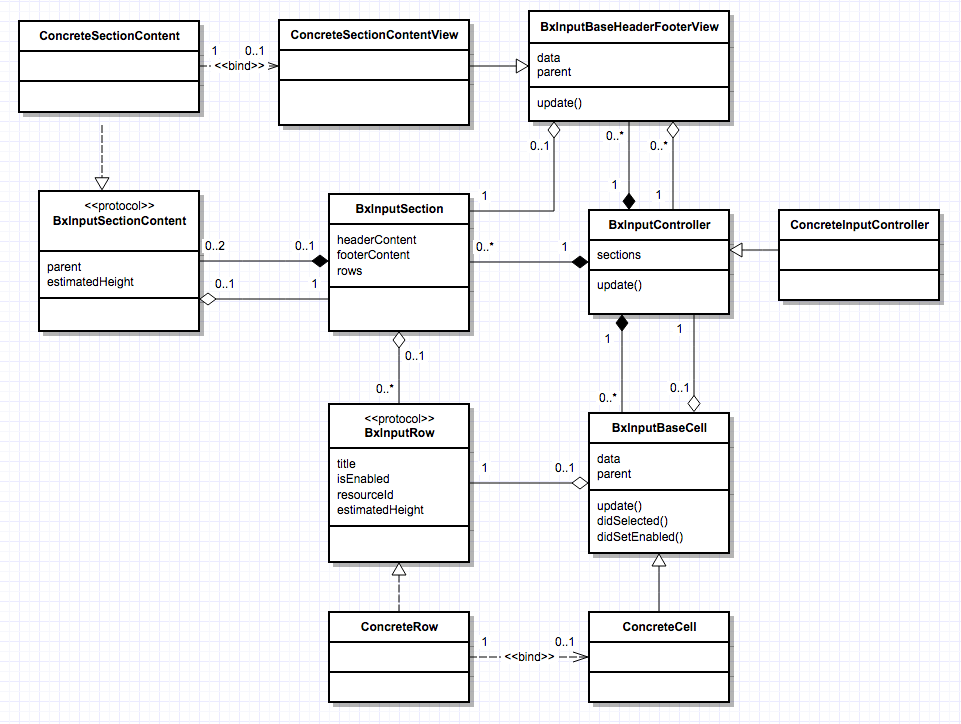
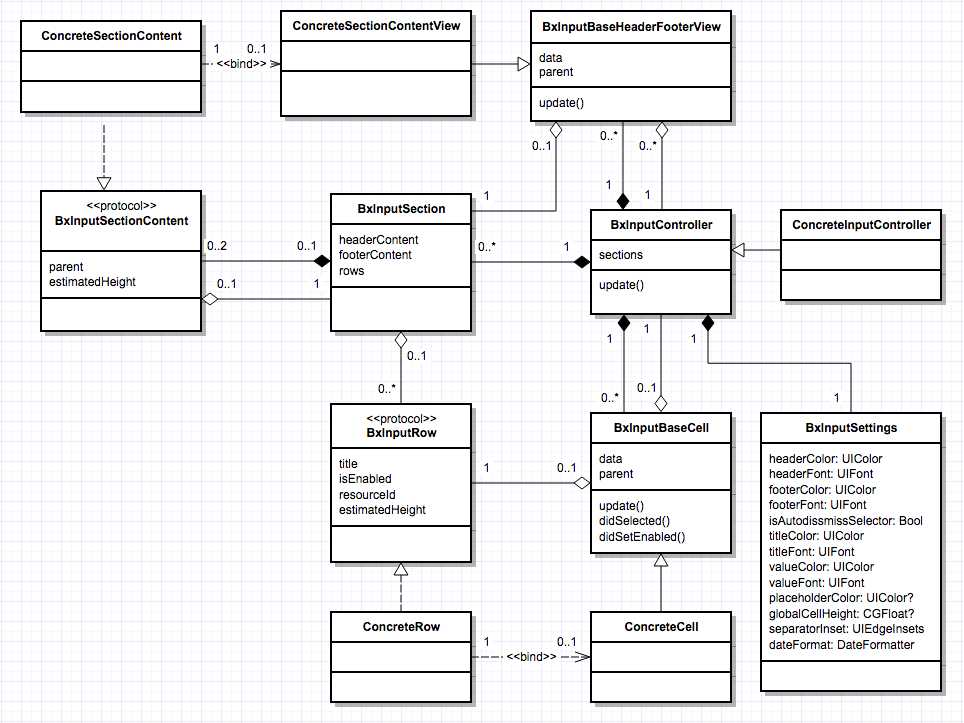
## 1.0.6 (27.02.2017) ##### Improvements * finished description of paradigm in the readme

diff --git a/README.md b/README.md
@@ -15,7 +15,7 @@ This framework will help iOS developers for simplify development general inputin
 - [x] Easy to use current solution and make a custom
 - [x] SOLID decision: easy binding View with data models
 - [x] UI creating from Interface Builder. Supporting xib and storyboards.
-- [x] Has settings for local of global change design and logic.
+- [x] Has settings for local or global change design and logic.
 
 
 ## Requirements
@@ -315,9 +315,24 @@ table has Event of change value in overrided method `didChangedRow` in your cust
 
 ### Common
 
+I was thinking use any of a lot of programming paradigms for iOS: MVVM, MVP, VIPER, Reactive. But noone don't ignore standard MVC because it is needed for compatibility. The main problem is a hard link controller-View anyway. So I have solved create myself solution, abstracting from the conventional concepts, because I have highly specialized task. I think now it is complex solution, please see UML class diagrams below.
+
 ![Common paradigm](Screenshots/UML-base.png)
 
+### Description with exising paradigmes
+
+`BxInputController` is a UIViewController with the Facade functions, so it may has "presenter" name in VIPER. It manages all ViewModels objects that inherited from `BxInputBaseCell`, `BxInputBaseHeaderFootherView` classes. ViewModels have back-reference with `BxInputController`, because they have the single field of a responsibility drawing UI and may has "interactor" name in VIPER.
+
+Passive Model is objects inherited from `BxInputSection` with `BxInputSectionContent` and `BxInputRow`. It has any information about style of UI and passive data ("Entity" in VIPER). You can use prepared solutions or create yourself implementation, that have to make flexible behavior for this component. `BxInputSection` encapsulated all `BxInputSectionContent` and `BxInputRow` is a source of material for building UI and getting of inputed data. It are a protocol oriented thin objects.
+
+Relationships BxInputRow with `BxInputBaseCell` and `BxInputSection` with `BxInputBaseHeaderFooterView` in a concrete implementation may be shown as Model-ViewModel binding as in MVVM.
+
+`BxInputSettings` implements appearance pattern. All easy.
+
+
 ### Simple & Selector
+
+Let's see at different implementations of `BxInputRow`, for represent of simple and selector row types. We will see only text rows for example. In yellow area are shown the selector type classes, the classes as `BxInputTextRow` and `BxInputStandartTextCell` is concrete implementation of simple type of putting text (please see UML class diagrams below). With simple type is all clear, let's see `BxInputSelectorRow` and `BxInputChildSelectorRow`, that is protocols of rows with selector. They have relationship one-to-many. Actually ViewModel for `BxInputSelectorRow` (for this example it is `BxInputSelectorCell`) has responsibility of managing of itself `children' rows. When you select this cell, it should add new row `BxInputChildSelectorTextRow` with help `parent` (this is protocol of `BxInputController`), which presents all cells from rows. If you select again then cell should be closed, and `children` rows should be removed from `BxInputController`. In general `children` is many of objects, but for our example it is single object of the class `BxInputChildSelectorTextRow`. That class does not necessarily have to be public, because it is fully encapsulated in the parent class `BxInputSelectorTextRow`.
 
 ![Common paradigm](Screenshots/UML-text.png)
 

diff --git a/CHANGELOG.md b/CHANGELOG.md
@@ -6,6 +6,10 @@ ByteriX, 2017. All right reserved.
 
 # Versions
 
+## 1.0.6 (27.02.2017)
+##### Improvements
+* finished description of paradigm in the readme
+
 ## 1.0.5 (25.02.2017)
 ##### Improvements
 * to started description of paradigm in the readme
